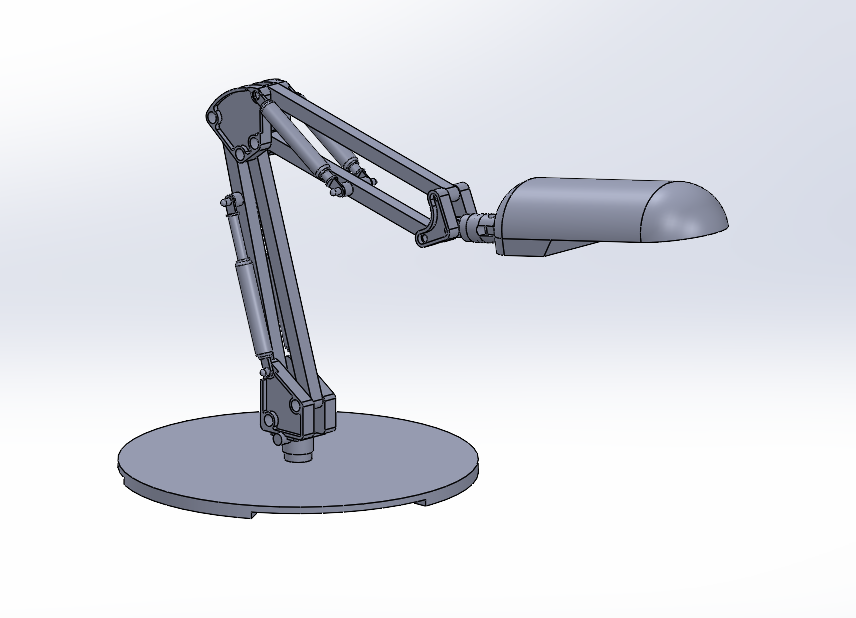
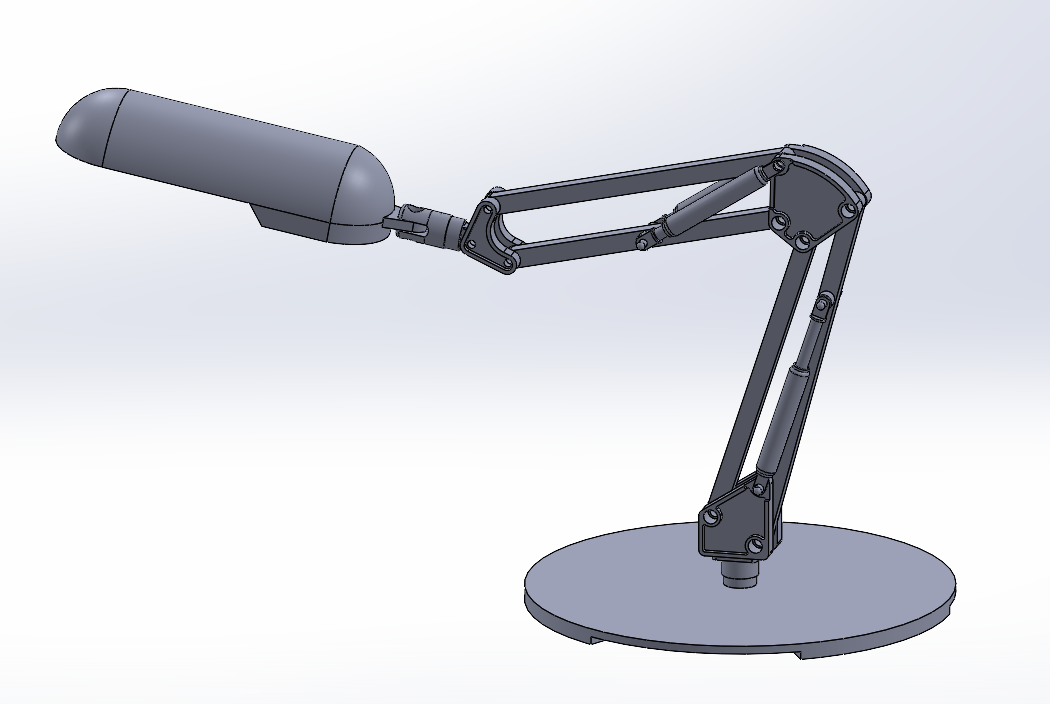
index

Changed region(s): [[0.0304, 0.123, 0.9112, 0.9531]]

diff --git a/style.css b/style.css
@@ -62,7 +62,7 @@ p {
 /* Home image */
 .center-image {
   width: 70%;
-  max-width: 400px;
+  max-width: 350px;
   max-height: 56vh;
   border-radius: 10px;
   margin: 10px 20px;
